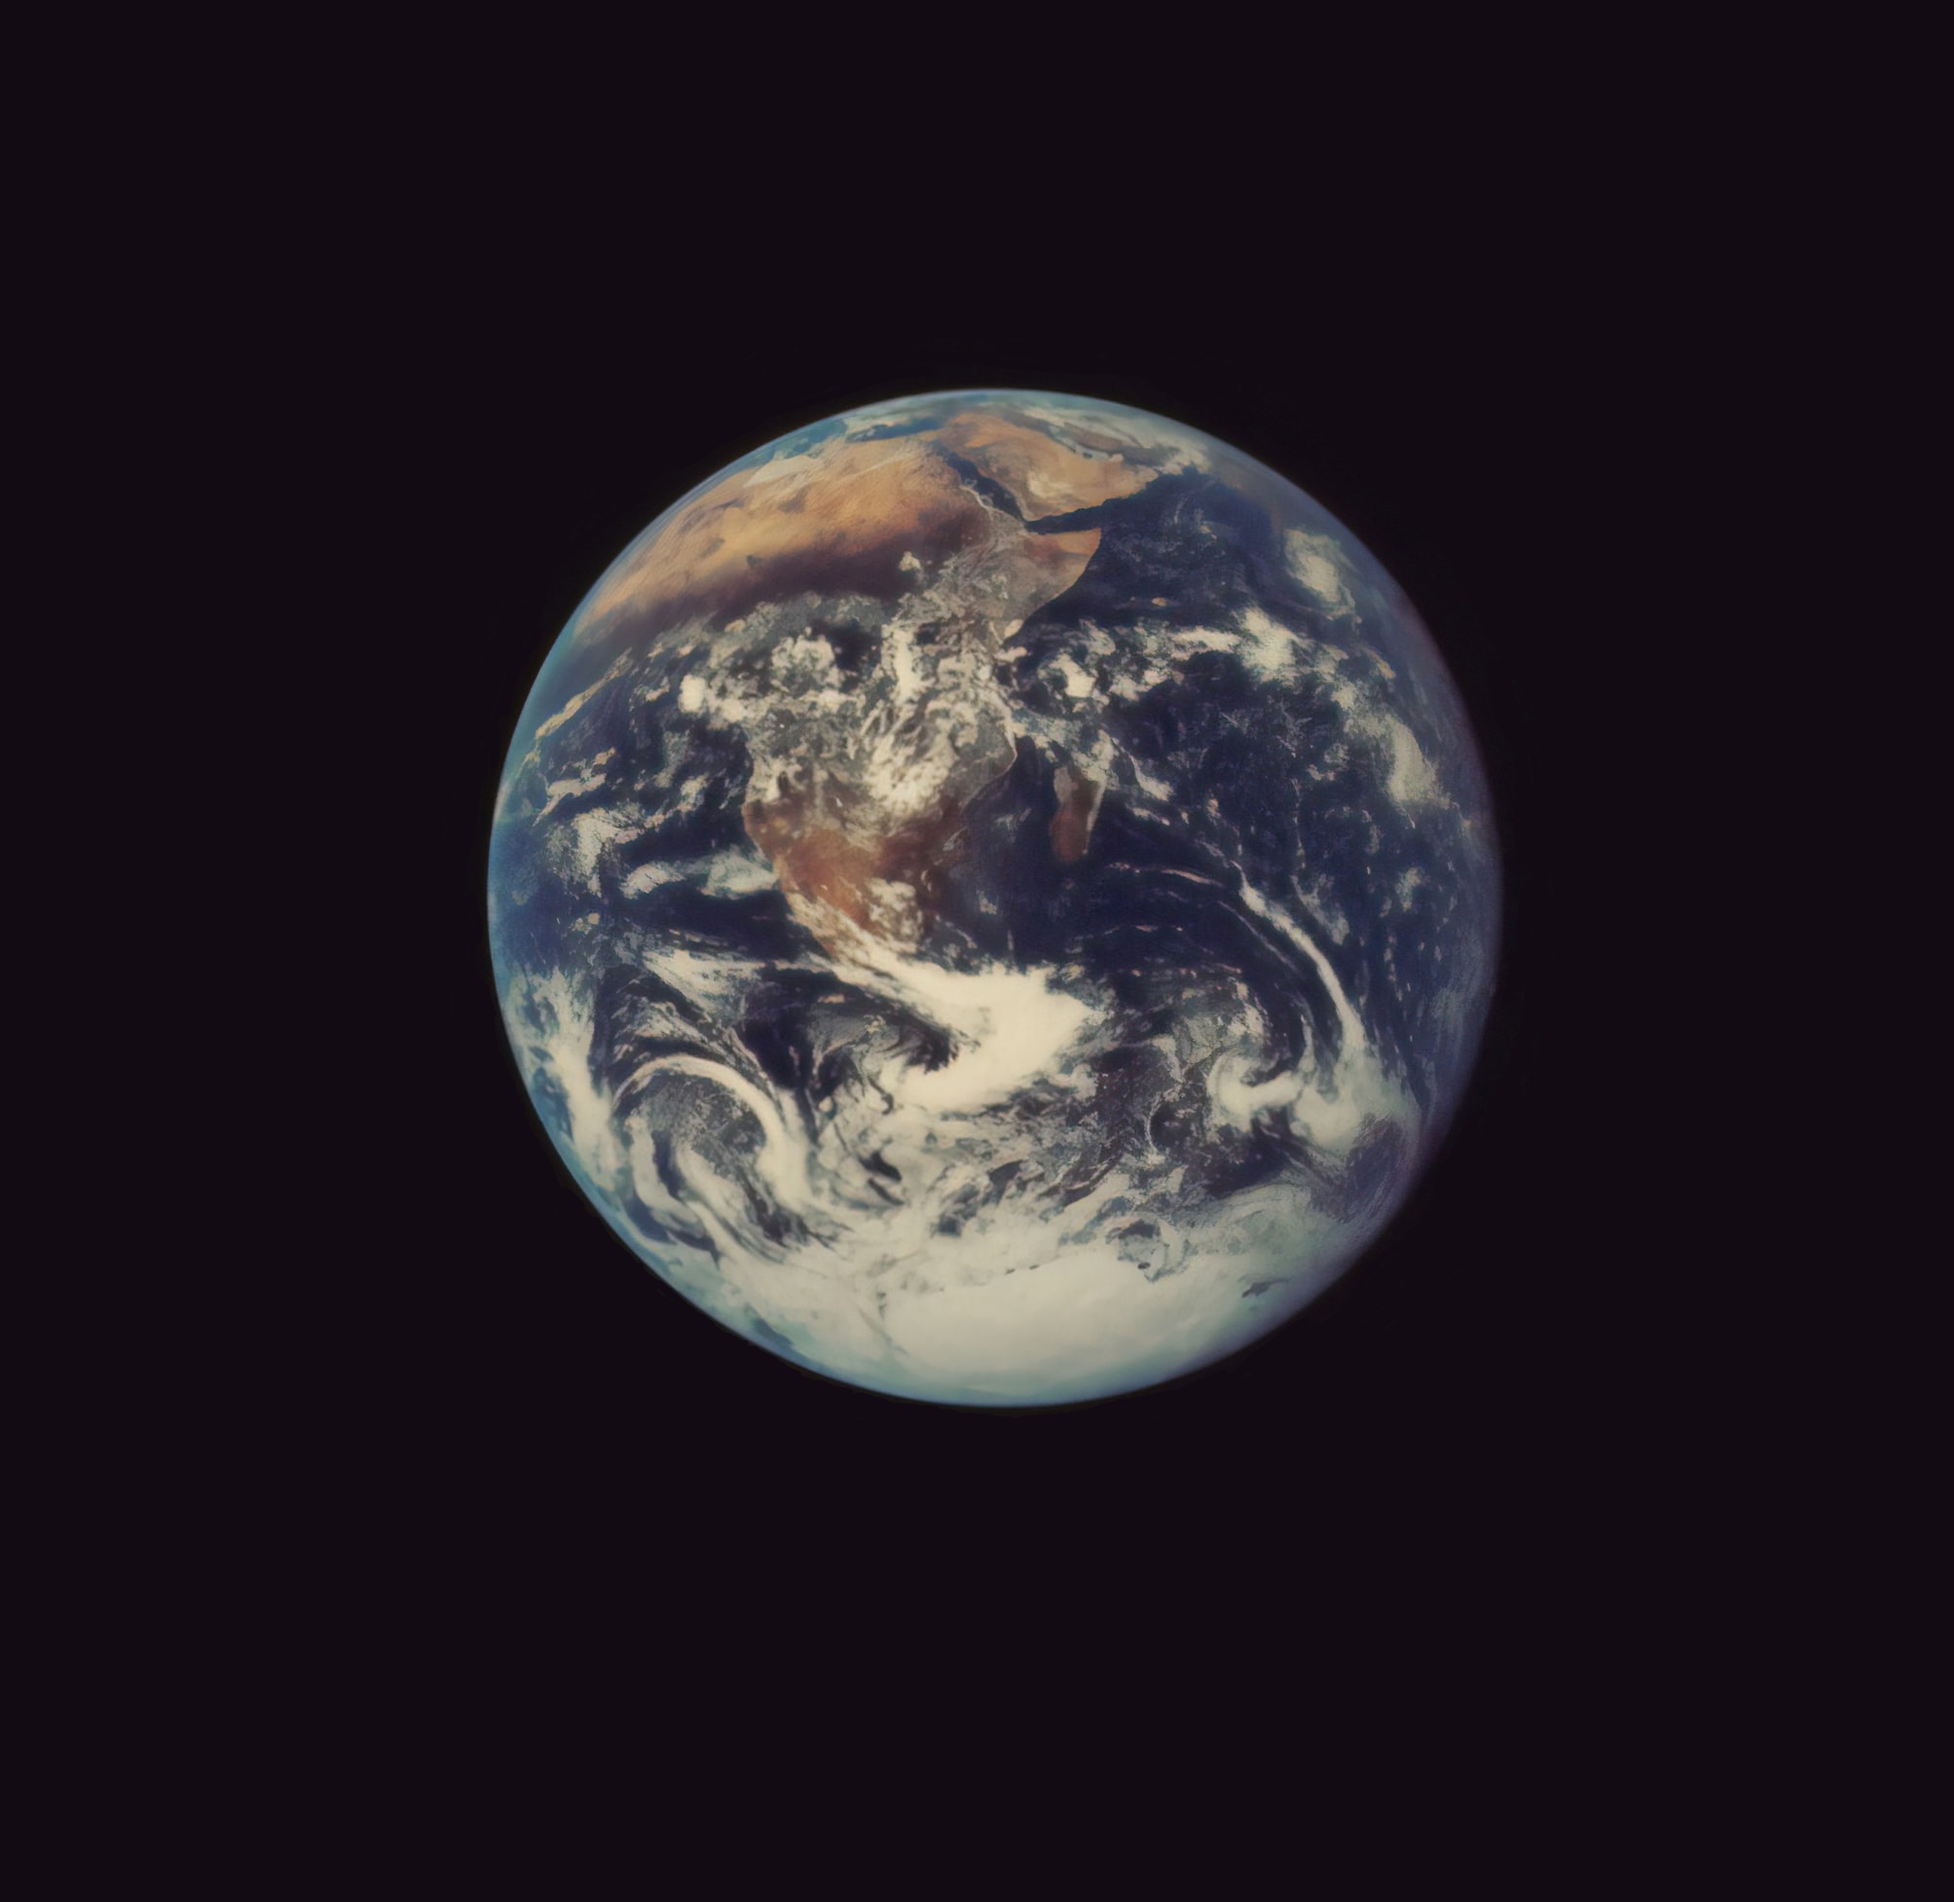
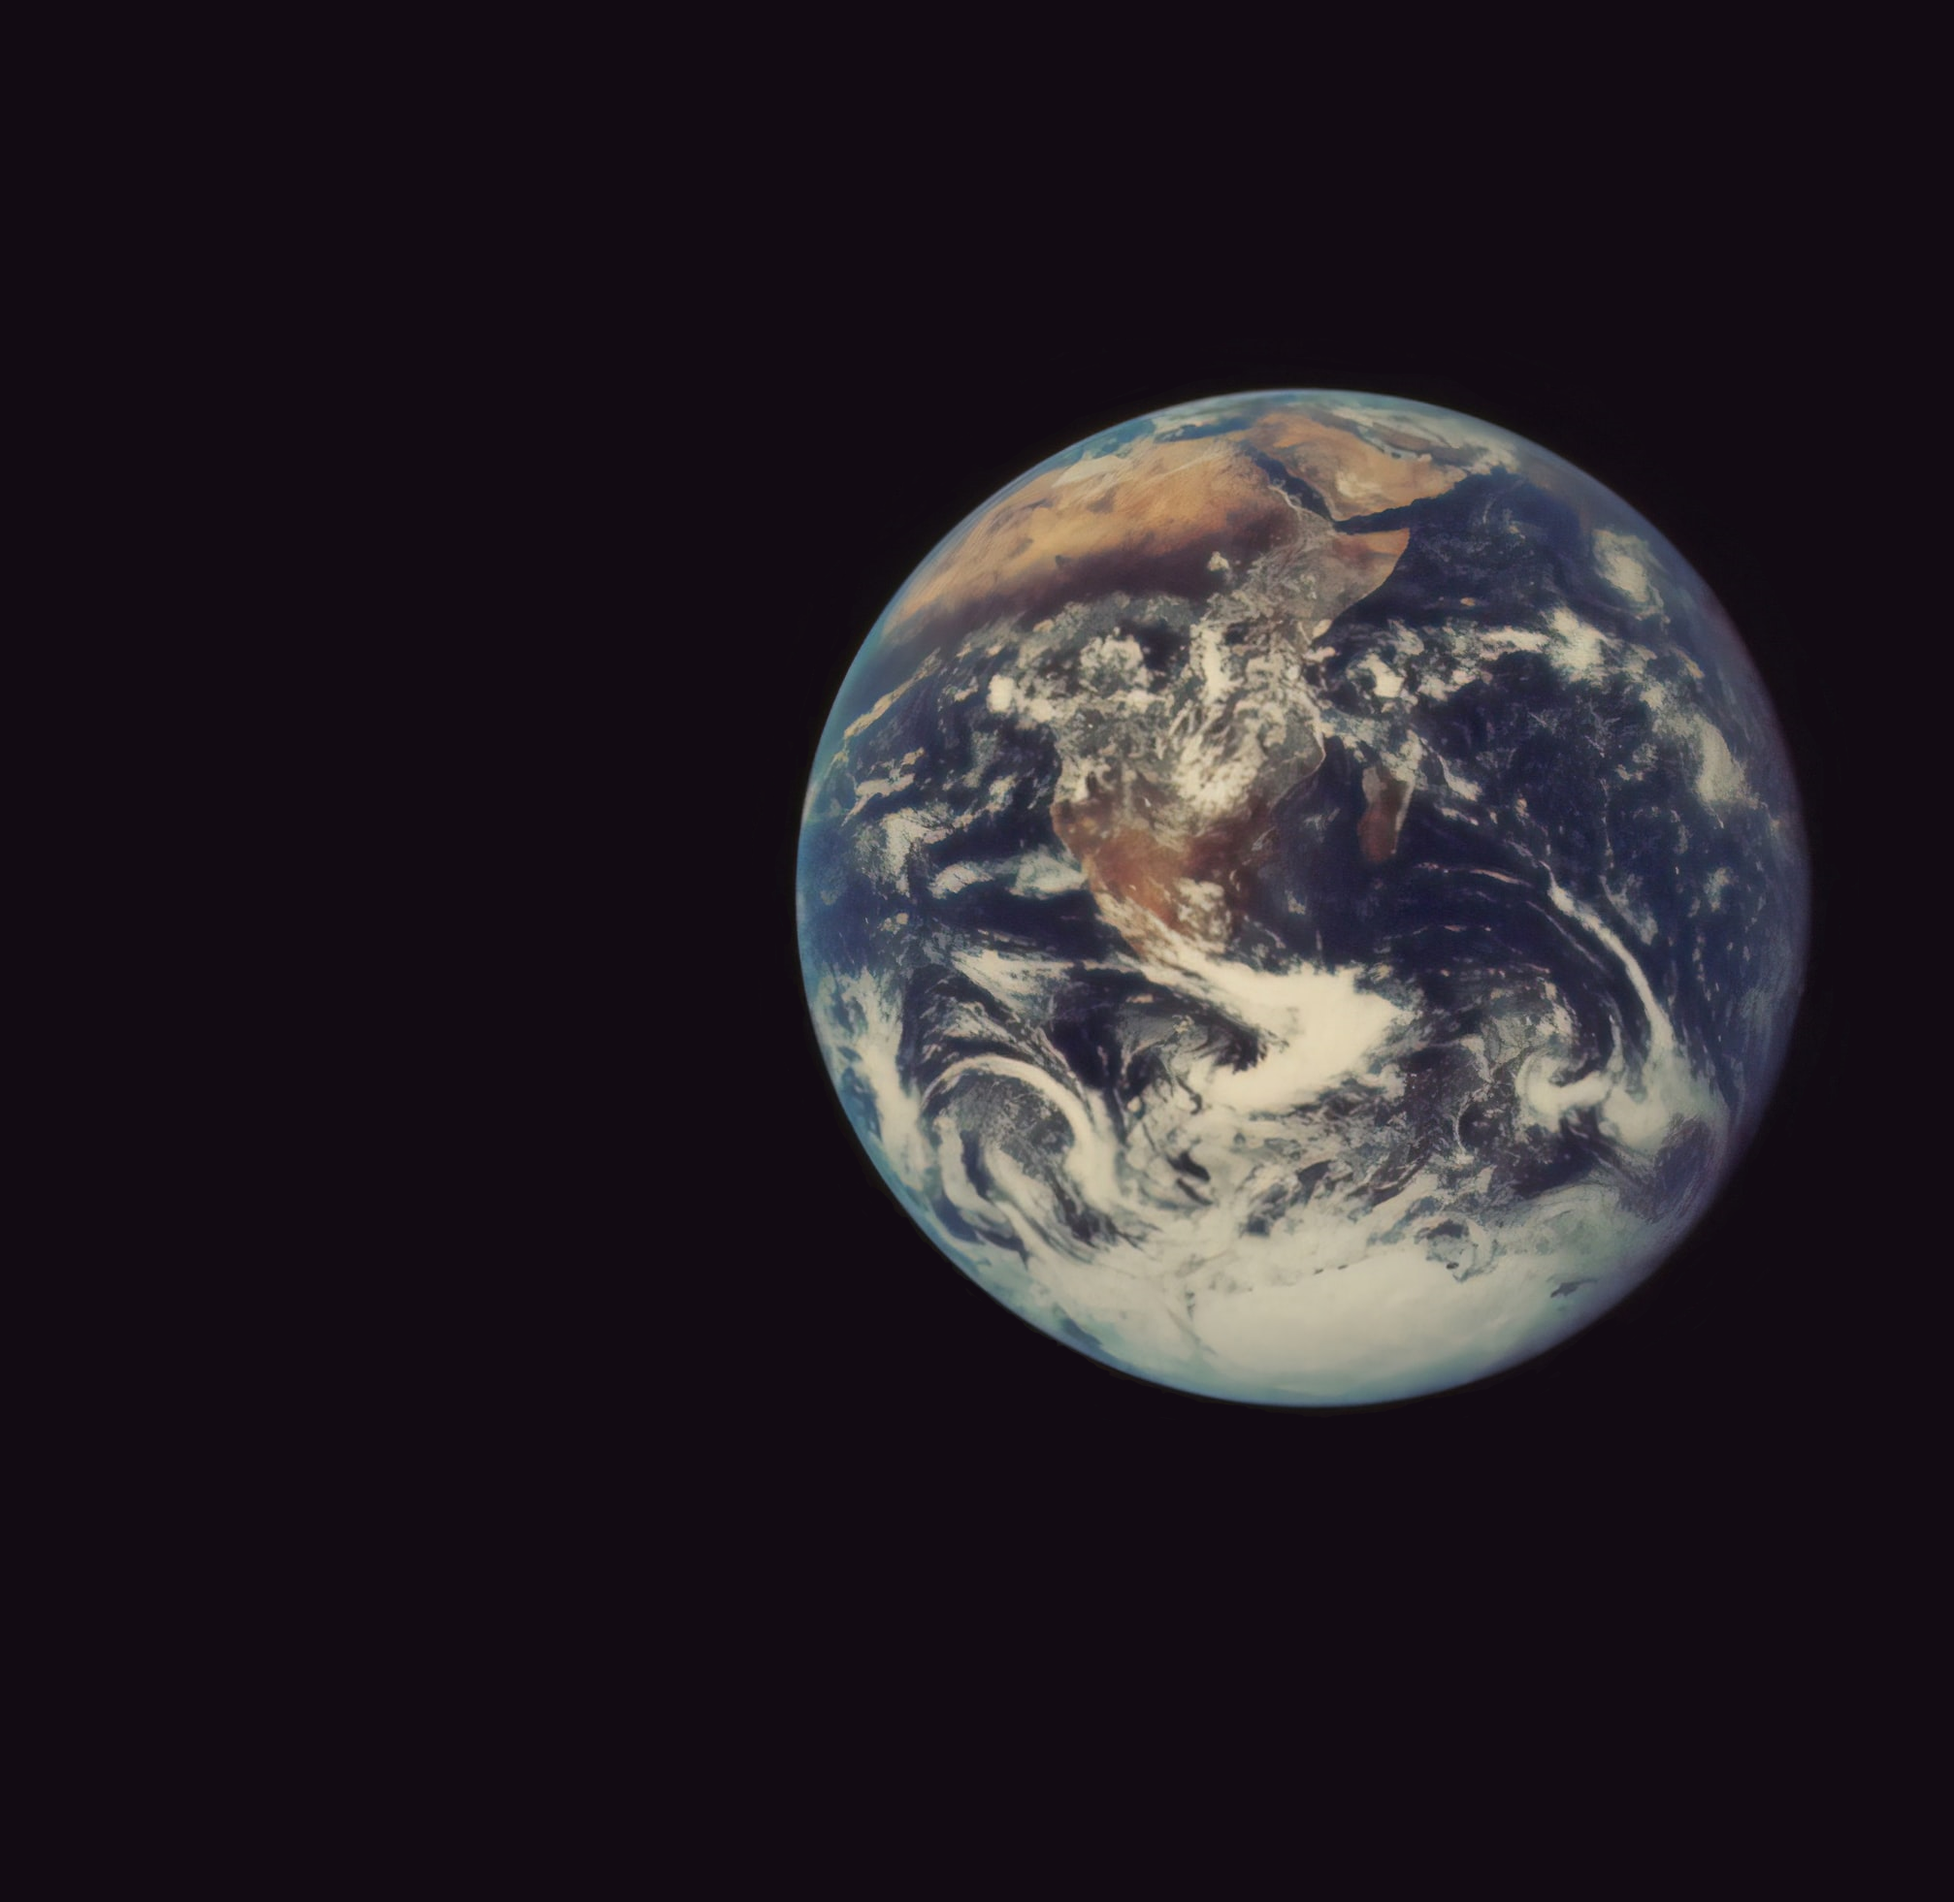
Improved front page animation

Changed region(s): [[0.2463, 0.1866, 0.9235, 0.7466]]

diff --git a/src/components/sections/Front.js b/src/components/sections/Front.js
@@ -1,32 +1,47 @@
 import React from "react";
 
 import styled from "styled-components";
-import img from "../../images/heheh.png";
+import img from "../../images/heheh2.png";
 
 const Front = ({ setLoaded }) => {
   return (
-    <BackgroundWrapper>
-      <BackgroundImage
-        src={img}
-        alt="background"
-        onLoad={(e) => {
-          setLoaded(true);
-          e.target.parentElement.classList.add("active");
-        }}
-      />
-    </BackgroundWrapper>
+    <HeaderContainer>
+      <>
+        <BackgroundImage
+          src={img}
+          alt="background"
+          onLoad={(e) => {
+            setLoaded(true);
+            e.target.parentElement.classList.add("active");
+          }}
+        />
+        <div
+          className="site-header"
+          style={{ color: "white", transform: "translateY(0px)", opacity: "1" }}
+        >
+          <h1>Patryk Krajewski</h1>
+          <h2>Front-End Developer</h2>
+        </div>
+      </>
+    </HeaderContainer>
   );
 };
 
 export default Front;
 
-const BackgroundWrapper = styled.div`
+const HeaderContainer = styled.div`
   height: 100vh;
+  display: flex;
+  justify-content: center;
+  align-items: flex-start;
+  flex-flow: column;
+  position: relative;
 
   &::before {
     content: "";
     position: fixed;
     display: block;
+    z-index: 1;
 
     width: 100%;
     height: 100%;
@@ -48,4 +63,10 @@ const BackgroundImage = styled.img`
   width: 100%;
   height: 100%;
   object-fit: contain;
+  position: absolute;
+  z-index: 0;
+
+  @media (max-width: 1280px) {
+    object-position: right;
+  }
 `;

diff --git a/src/App.js b/src/App.js
@@ -9,7 +9,7 @@ function App() {
 
   return (
     <div className="App">
-      <nav>NAV</nav>
+      <nav style={{ zIndex: "110" }}>NAV</nav>
       <header>
         <Front setLoaded={setImageLoaded} />
       </header>

diff --git a/src/App.css b/src/App.css
@@ -1,3 +1,11 @@
+*,
+::before,
+::after {
+  box-sizing: border-box;
+  margin: 0;
+  padding: 0;
+}
+
 .App {
   text-align: center;
   background-color: rgb(18, 11, 19);
